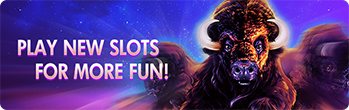
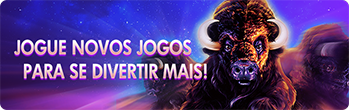
新增大廳葡語系圖片

Changed region(s): [[0.0573, 0.5455, 0.6017, 0.7364], [0.0287, 0.3273, 0.5731, 0.5182]]

diff --git a/src/app/component/lobby/lobby.component.html b/src/app/component/lobby/lobby.component.html
@@ -119,7 +119,10 @@
     <!-- 登出元件 -->
     <div id="logout-box" class="blurContainer" hidden>
       <div class="confirm-box">
-
+        <picture>
+          <source [srcset]="'/assets/imgs/' + picLang + '/picLogoutFrame@2x.png.webp'">
+          <img class="logout-msg" [src]="'/assets/imgs/' + picLang + '/picLogoutFrame@2x.png'" alt="logout-msg">
+        </picture>
         <img class="leaveBtn" draggable="false" src="/assets/imgs/btnLogoutLeaveNormal.png" alt="NO"
             (mousedown) ="setClosePressed($event)"
             (touchend)  ="setCloseNormal($event)"
@@ -129,9 +132,9 @@
             (click)     ="closeLogoutBox()"
         >
 
-        <div class="text-center text-message">{{ 'lobby.logoutMessage' | translate }}</div>
+        <!-- <div class="text-center text-message">{{ 'lobby.logoutMessage' | translate }}</div> -->
 
-        <div class="img-btn d-flex justify-content-around">
+        <div class="btn-set d-flex justify-content-around">
           <img class="yes" draggable="false" [src]="'lobby.yesImgNormal' | translate " alt="YES"
             (mousedown) ="setYesPressed($event)"
             (touchend)  ="setYesNormal($event)"

diff --git a/src/app/component/lobby/lobby.component.scss b/src/app/component/lobby/lobby.component.scss
@@ -350,9 +350,6 @@
   {
 
     position: relative;
-    background: url('/assets/imgs/picLogoutFrame@2x.png.webp'),url('/assets/imgs/picLogoutFrame@2x.png');
-    background-repeat: no-repeat;
-    background-size: 100% 100%;
     width: 96%;
     padding-top: 65%;
     height: 0;
@@ -363,7 +360,13 @@
       top: -2.5%;
       right: -1%;
     }
-
+    picture .logout-msg {
+      width: 100%;
+      height: 100%;
+      position: absolute;
+      top: 0;
+      left: 0;
+    }
     .text-message
     {
       width: 100%;
@@ -372,7 +375,7 @@
       color: whitesmoke;
       text-shadow: 0px 2px 2px black;
     }
-    .img-btn
+    .btn-set
     {
       position: absolute;
       width: 100%;

diff --git a/src/app/component/account/account.component.html b/src/app/component/account/account.component.html
@@ -16,12 +16,10 @@
 
 
   <div class="main-content">
+    <!-- 頁籤 -->
+    <img class="short-label" [srcset]="'account.label' | translate" />
         <form id="resetPasswordForm" action="#">
-          <!-- 頁籤 -->
-          <picture class="short-label">
-            <source class="short-label" [srcset]="'account.label' | translate" >
-            <img class="short-label" [srcset]="'account.label' | translate" />
-          </picture>
+
           <div *ngIf="false" class="d-flex text-center justify-content-start" style="margin-left:2vw;">
               <span class="btn-bg btn-label">{{'account.RESET PASSWORD' | translate }}</span>
           </div>

diff --git a/src/app/app.component.ts b/src/app/app.component.ts
@@ -31,7 +31,6 @@ export class AppComponent implements OnInit, AfterViewInit {
     }
     localStorage.setItem('lang', this.translate.currentLang);
     translate.setDefaultLang(defaultLang);
-    console.log(translate.currentLang);
   }
 
   ngOnInit(): void {

diff --git a/src/app/component/history/history.component.scss b/src/app/component/history/history.component.scss
@@ -17,6 +17,7 @@
   @media screen and ( orientation: portrait )   { height:7vh; }
   @media screen and ( orientation: landscape )  { height:7vw; }
   border-bottom: 2px solid #0044BB;
+  background-color: #380da2;
 }
 
 .column
